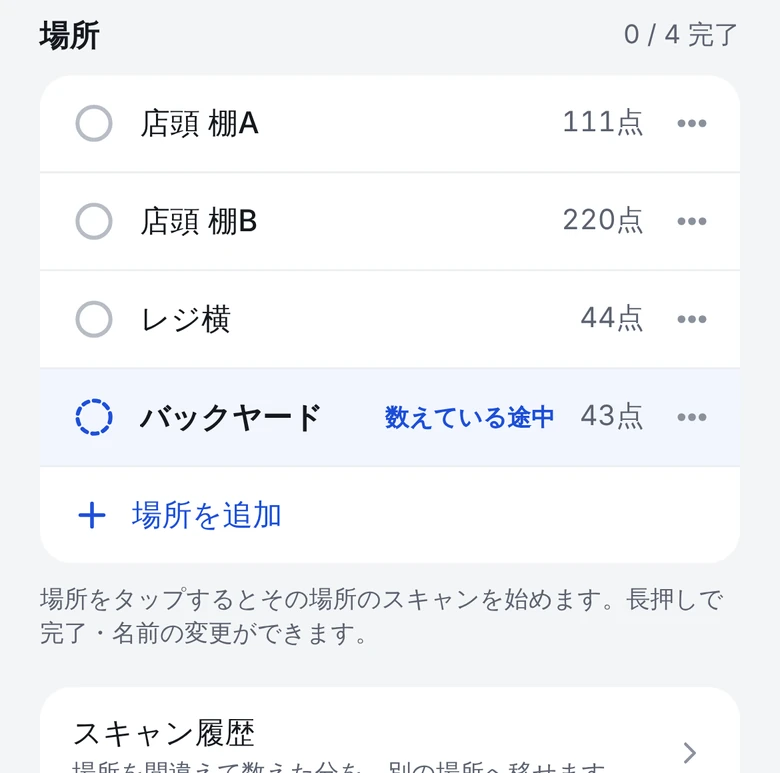
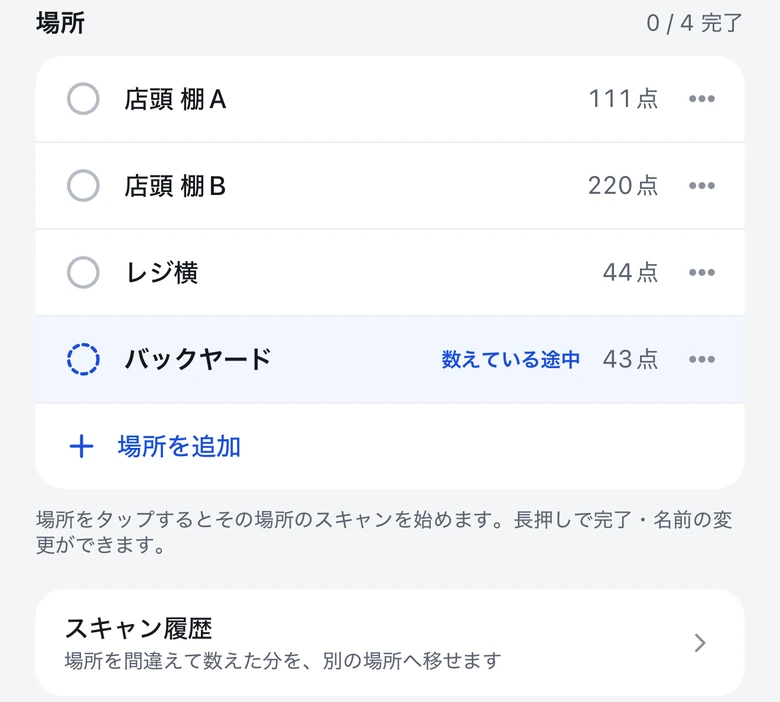
紹介ページの画面を iPhone の実際のスクリーンショットに差し替える
- 01〜08 の実機（シミュレーター）画面から切り抜き、Web 版で撮った画面を置き換える
- 「商品の一覧は Excel から」を、列の指定の画面つきの1枚にし、できることを2×2の4枚にする
- 元のスクリーンショット（assets/raw）は切り抜き後に削除

Claude-Session: https://claude.ai/code/session_019HvXXq9umpLVd5vn49hai7

diff --git a/tanapi/index.html b/tanapi/index.html
@@ -120,14 +120,14 @@
 
 
 
-  .tiles { display: grid; grid-template-columns: repeat(3, minmax(0, 1fr)); gap: 20px; }
+  .tiles { display: grid; grid-template-columns: repeat(2, minmax(0, 1fr)); gap: 20px; }
   .tile { margin: 0; background: var(--panel); border-radius: 20px; overflow: hidden; display: flex; flex-direction: column; }
   .tile figcaption { padding: 32px 32px 28px; }
   .tile h3 { margin: 0 0 6px; font-size: 19px; font-weight: 500; line-height: 1.5; }
   .tile p { margin: 0; color: var(--sub); font-size: 15px; line-height: 1.75; }
-  .tile-shot { margin-top: auto; height: 300px; overflow: hidden; padding: 0 28px; }
+  .tile-shot { margin-top: auto; height: 320px; overflow: hidden; padding: 0 40px; }
   .tile-shot img { border-radius: 14px 14px 0 0; border: 1px solid #e1e0db; border-bottom: 0; }
-  .facts { list-style: none; margin: 56px 0 0; padding: 0; display: grid; grid-template-columns: repeat(2, minmax(0, 1fr)); column-gap: 64px; border-top: 1px solid var(--line); }
+  .facts { list-style: none; margin: 56px 0 0; padding: 0; display: grid; grid-template-columns: repeat(3, minmax(0, 1fr)); column-gap: 48px; border-top: 1px solid var(--line); }
   .facts li { padding: 22px 0; border-bottom: 1px solid var(--line); color: var(--sub); font-size: 15px; }
   .facts b { display: block; color: var(--ink); font-weight: 500; font-size: 16px; margin-bottom: 2px; }
 
@@ -167,7 +167,7 @@
     .hero .phone { width: 100%; max-width: 340px; margin: 0 auto -110px; }
     .head { grid-template-columns: 1fr; gap: 10px; }
     .tiles, .facts { grid-template-columns: 1fr; }
-    .tile-shot { height: 280px; }
+    .tile-shot { height: 280px; padding: 0 24px; }
     .head { margin-bottom: 48px; }
     .steps { grid-template-columns: 1fr; }
     .step, .step + .step { padding: 32px 0 0; border-left: 0; }
@@ -228,7 +228,7 @@
           </table>
           <p class="release"><strong>iPhone・Android</strong>App Store・Google Play で公開予定です。</p>
         </div>
-        <img class="phone" src="assets/screens/summary.webp" width="390" height="844" alt="3人分を合算した集計画面。商品ごとに実数・帳簿数・差が並び、金額合計 ¥53,880">
+        <img class="phone" src="assets/screens/summary.webp" width="390" height="848" alt="3人分を合算した集計画面。商品ごとに実数・帳簿数・差が並び、金額合計 ¥53,880">
       </div>
     </div>
   </div>
@@ -244,19 +244,19 @@
           <span class="n num">1</span>
           <h3>それぞれのスマホで数える</h3>
           <p class="jp">手伝う人は Tanapi を入れて、担当の棚のバーコードを読むだけ。無料版のままで使えます。</p>
-          <div class="shot"><img src="assets/screens/history-top.webp" width="780" height="1040" alt="スキャン履歴。時刻、商品名、場所、数えた人、数量が新しい順に並ぶ" loading="lazy"></div>
+          <div class="shot"><img src="assets/screens/history-top.webp" width="780" height="1066" alt="スキャン履歴。時刻、商品名、場所、数えた人、数量が新しい順に並ぶ" loading="lazy"></div>
         </div>
         <div class="step">
           <span class="n num">2</span>
           <h3>終わったら、まとめ役に送る</h3>
           <p class="jp">「まとめ役の端末に送る」を押して名前を入れると、ファイルができます。数え足したときは、送り直せば置き換わります。</p>
-          <div class="shot"><img src="assets/screens/team-card.webp" width="780" height="610" alt="手分けして数える。佐藤 167点、鈴木 60点が取り込み済みと表示されている" loading="lazy"></div>
+          <div class="shot"><img src="assets/screens/team-card.webp" width="780" height="494" alt="手分けして数える。佐藤 167点、鈴木 60点が取り込み済みと表示されている" loading="lazy"></div>
         </div>
         <div class="step">
           <span class="n num">3</span>
           <h3>1台にまとめて、差を見る</h3>
           <p class="jp">まとめ役の端末で取り込むと、場所ごと・商品ごとに足し合わされます。帳簿と合わない商品も、すぐにわかります。</p>
-          <div class="shot"><img src="assets/screens/summary-diff.webp" width="780" height="833" alt="集計の差異あり。マスキングテープ 63/64、一筆箋 38/40、付箋 78/80" loading="lazy"></div>
+          <div class="shot"><img src="assets/screens/summary-diff.webp" width="780" height="910" alt="集計の差異あり。マスキングテープ 63/64、一筆箋 38/40、付箋 78/80" loading="lazy"></div>
         </div>
       </div>
     </div>
@@ -270,20 +270,23 @@
       </div>
       <div class="tiles">
         <figure class="tile">
+          <figcaption><h3>商品の一覧は Excel から</h3><p class="jp">今ある CSV をそのまま取り込めます。どの列が何かは、アプリが見分けます。</p></figcaption>
+          <div class="tile-shot"><img src="assets/screens/csv-columns.webp" width="780" height="819" alt="CSV取り込みの列の指定。A列 JAN はバーコード、B列 品名は商品名、と自動で判定されている" loading="lazy"></div>
+        </figure>
+        <figure class="tile">
           <figcaption><h3>場所ごとに数える</h3><p class="jp">棚や売り場ごとに分けて数えると、場所ごとの点数が並びます。</p></figcaption>
-          <div class="tile-shot"><img src="assets/screens/locations.webp" width="780" height="773" alt="場所の一覧。店頭 棚A 111点、店頭 棚B 220点、レジ横 44点、バックヤード 43点" loading="lazy"></div>
+          <div class="tile-shot"><img src="assets/screens/locations.webp" width="780" height="702" alt="場所の一覧。店頭 棚A 111点、店頭 棚B 220点、レジ横 44点、バックヤード 43点" loading="lazy"></div>
         </figure>
         <figure class="tile">
           <figcaption><h3>箱のまま数える</h3><p class="jp">「1箱 = 12個」を登録しておけば、箱とバラの数を入れるだけで合計になります。</p></figcaption>
-          <div class="tile-shot"><img src="assets/screens/qty-sheet.webp" width="780" height="807" alt="数量の入力。4箱 × 12 + 3 = 51個" loading="lazy"></div>
+          <div class="tile-shot"><img src="assets/screens/qty-sheet.webp" width="780" height="632" alt="数量の入力。4箱 × 12 + 3 = 51個" loading="lazy"></div>
         </figure>
         <figure class="tile">
           <figcaption><h3>Excel で開ける CSV に</h3><p class="jp">Shift-JIS で書き出すので文字化けしません。差がある商品だけも書き出せます。</p></figcaption>
-          <div class="tile-shot"><img src="assets/screens/export-card.webp" width="780" height="790" alt="書き出し。11月_定期棚卸_20261106.csv、8行、Shift-JIS" loading="lazy"></div>
+          <div class="tile-shot"><img src="assets/screens/export-card.webp" width="780" height="793" alt="書き出し。11月_定期棚卸_20261106.csv、8行、Shift-JIS" loading="lazy"></div>
         </figure>
       </div>
       <ul class="facts">
-        <li><b>商品の一覧は Excel から</b>どの列が何かは、アプリが見分けます。</li>
         <li><b>圏外でも動く</b>通信せず、端末の中だけに保存します。</li>
         <li><b>途中で閉じても大丈夫</b>読み取るたびに、すぐ保存します。</li>
         <li><b>場所の付け替え</b>切り替え忘れた分も、あとからまとめて移せます。</li>
